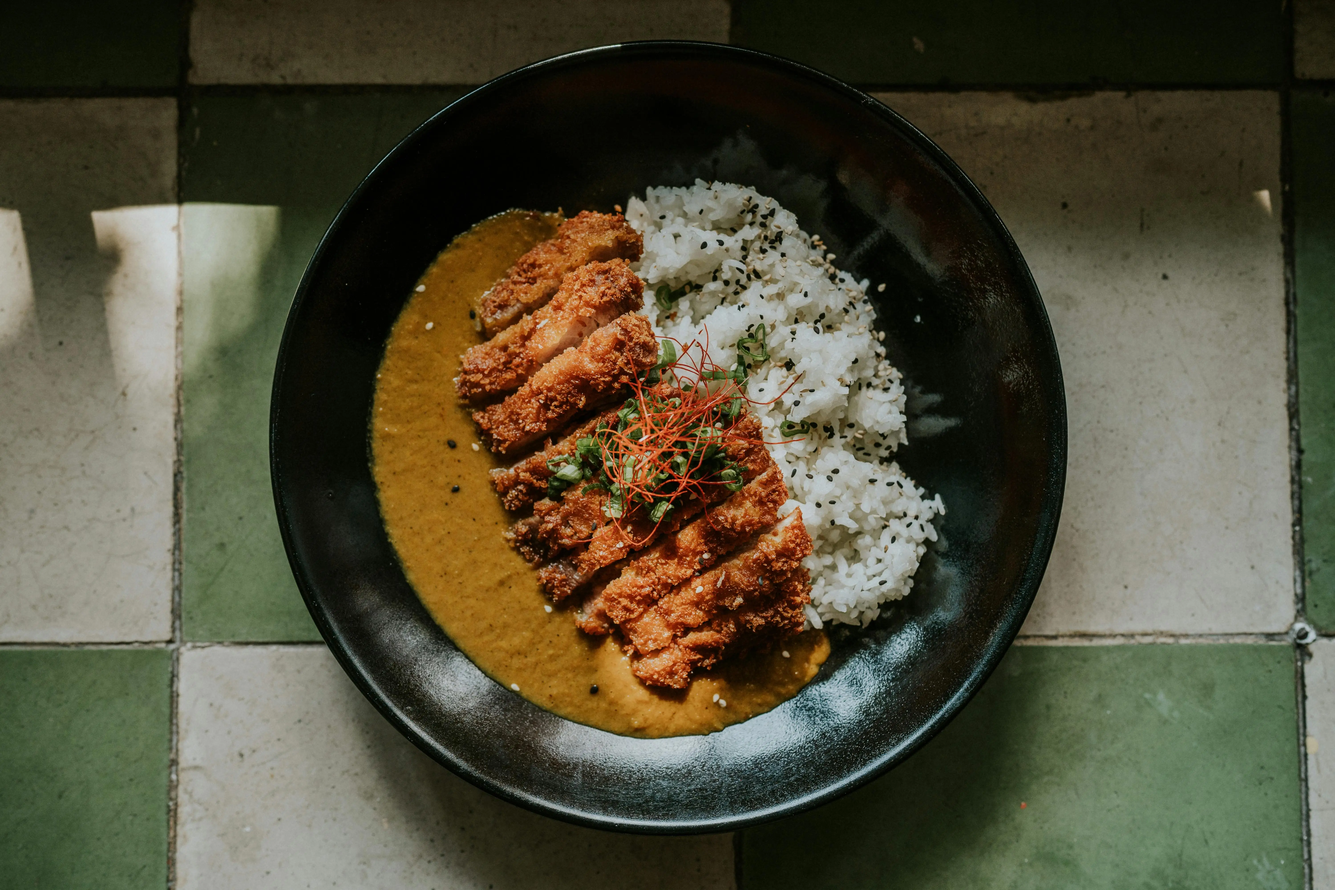
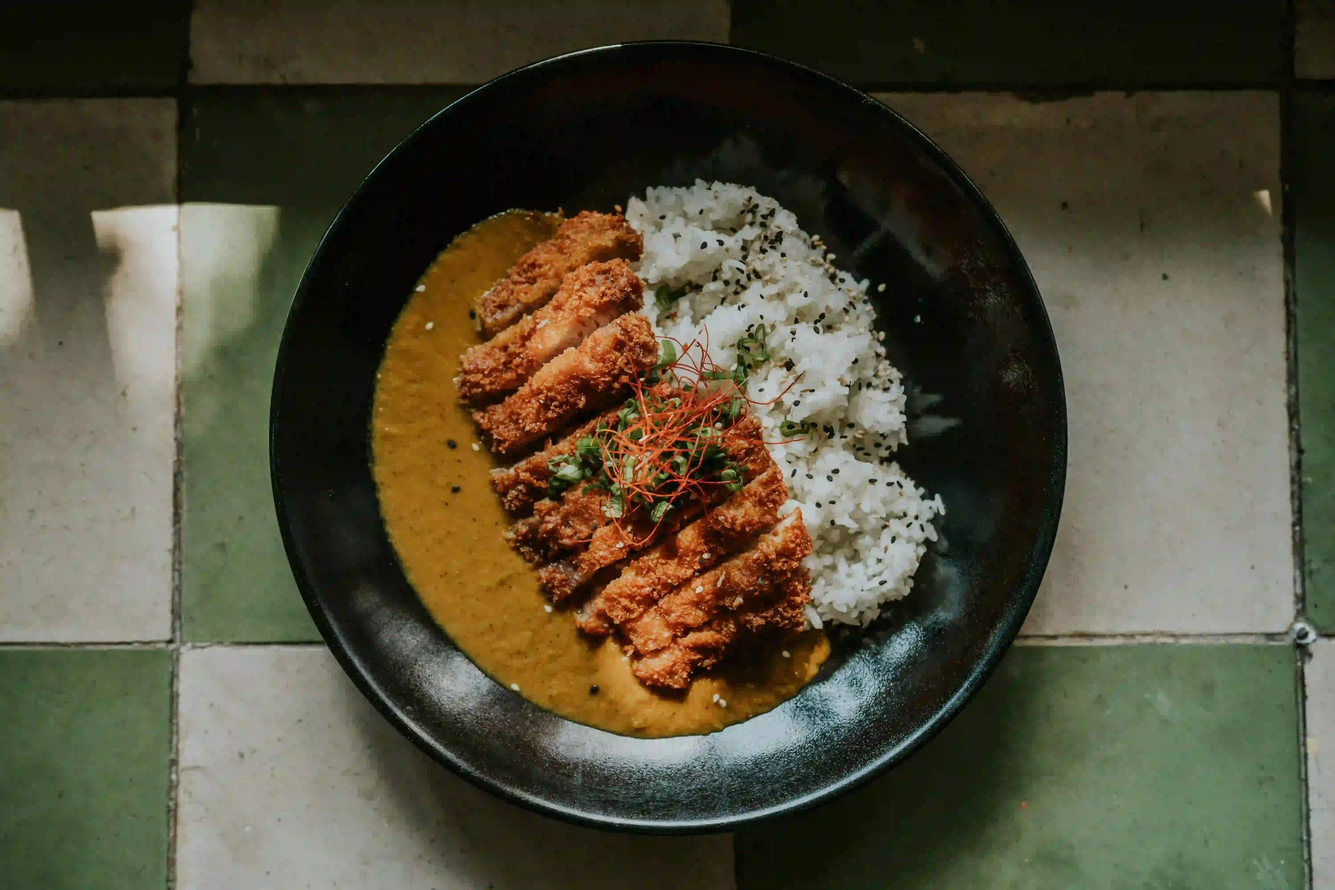
Optimized pictures and make footer header more readable

diff --git a/menu.html b/menu.html
@@ -224,7 +224,7 @@
         <div class="container section">
             <div class="row justify-content-center">
                 <div class="col-12 text-center">
-                    <h2 class="display-4"><span>Socials</span></h2>
+                    <h2 class="display-4 footer-header"><span>Socials</span></h2>
                 </div>
                 <!-- Contact info -->
                 <div class="social-links my-4 text-center">

diff --git a/merch.html b/merch.html
@@ -155,7 +155,7 @@
         <div class="container section">
             <div class="row justify-content-center">
                 <div class="col-12 text-center">
-                    <h2 class="display-4"><span>Socials</span></h2>
+                    <h2 class="display-4 footer-header"><span>Socials</span></h2>
                 </div>
                 <!-- Contact info -->
                 <div class="social-links my-4 text-center">

diff --git a/404.html b/404.html
@@ -82,7 +82,7 @@
         <div class="container section">
             <div class="row justify-content-center">
                 <div class="col-12 text-center">
-                    <h2 class="display-4"><span>Socials</span></h2>
+                    <h2 class="display-4 footer-header"><span>Socials</span></h2>
                 </div>
                 <!-- Contact info -->
                 <div class="social-links my-4 text-center">

diff --git a/contact.html b/contact.html
@@ -88,7 +88,7 @@
         <div class="container section">
             <div class="row justify-content-center">
                 <div class="col-12 text-center">
-                    <h2 class="display-4"><span>Socials</span></h2>
+                    <h2 class="display-4 footer-header"><span>Socials</span></h2>
                 </div>
                 <!-- Contact info -->
                 <div class="social-links my-4 text-center">

diff --git a/gallery.html b/gallery.html
@@ -98,7 +98,7 @@
         <div class="container section">
             <div class="row justify-content-center">
                 <div class="col-12 text-center">
-                    <h2 class="display-4"><span>Socials</span></h2>
+                    <h2 class="display-4 footer-header"><span>Socials</span></h2>
                 </div>
                 <!-- Contact info -->
                 <div class="social-links my-4 text-center">

diff --git a/success.html b/success.html
@@ -79,7 +79,7 @@
         <div class="container section">
             <div class="row justify-content-center">
                 <div class="col-12 text-center">
-                    <h2 class="display-4"><span>Socials</span></h2>
+                    <h2 class="display-4 footer-header"><span>Socials</span></h2>
                 </div>
                 <!-- Contact info -->
                 <div class="social-links my-4 text-center">
